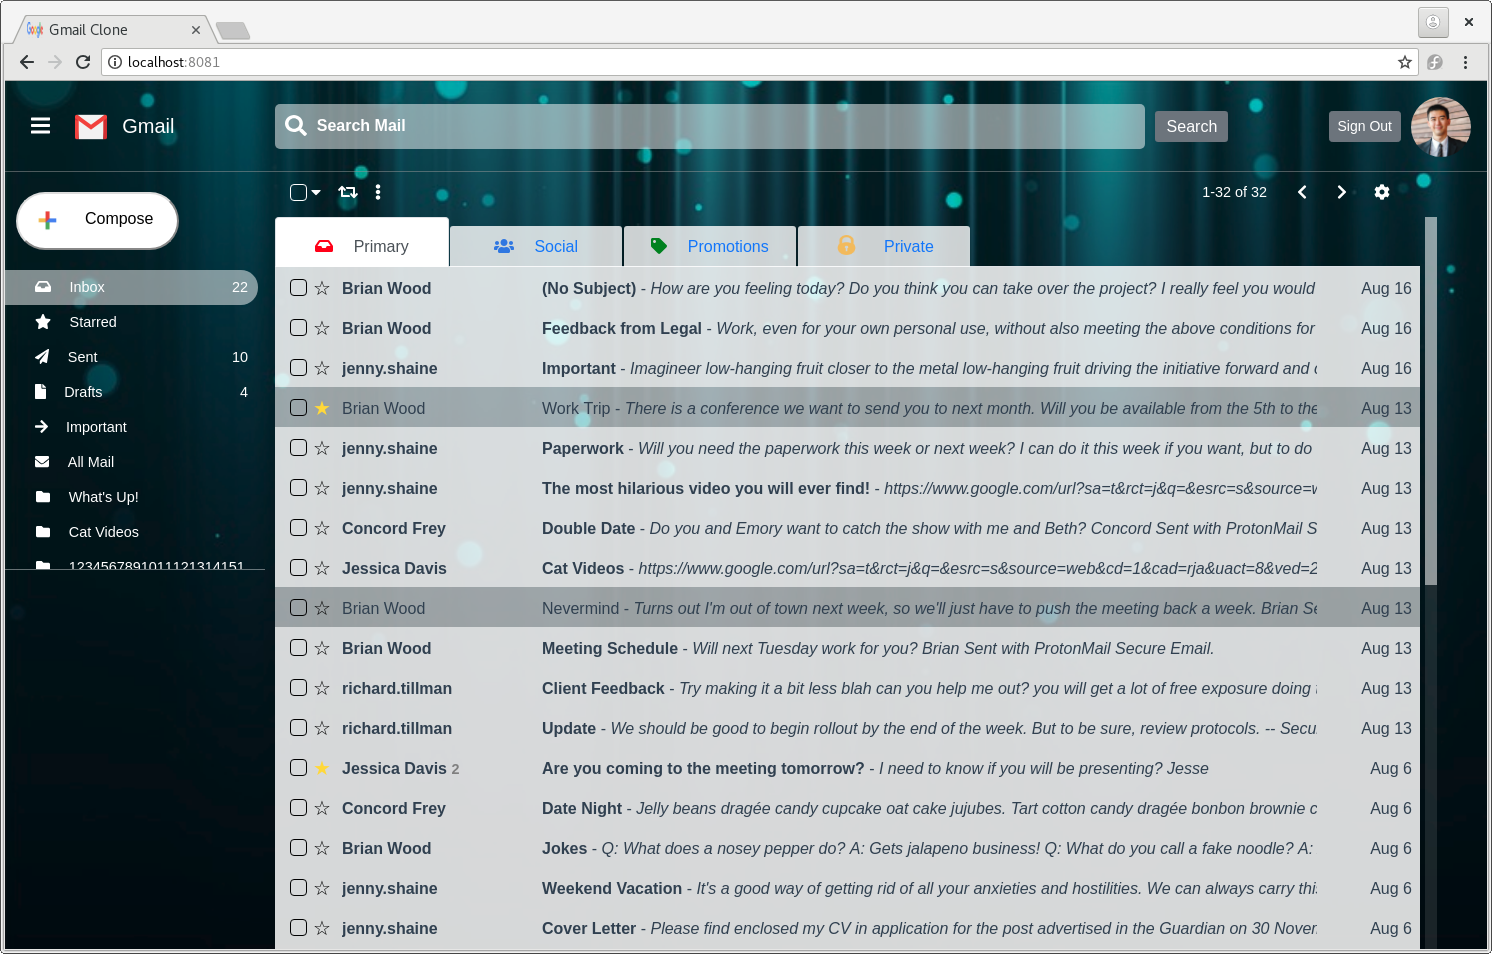
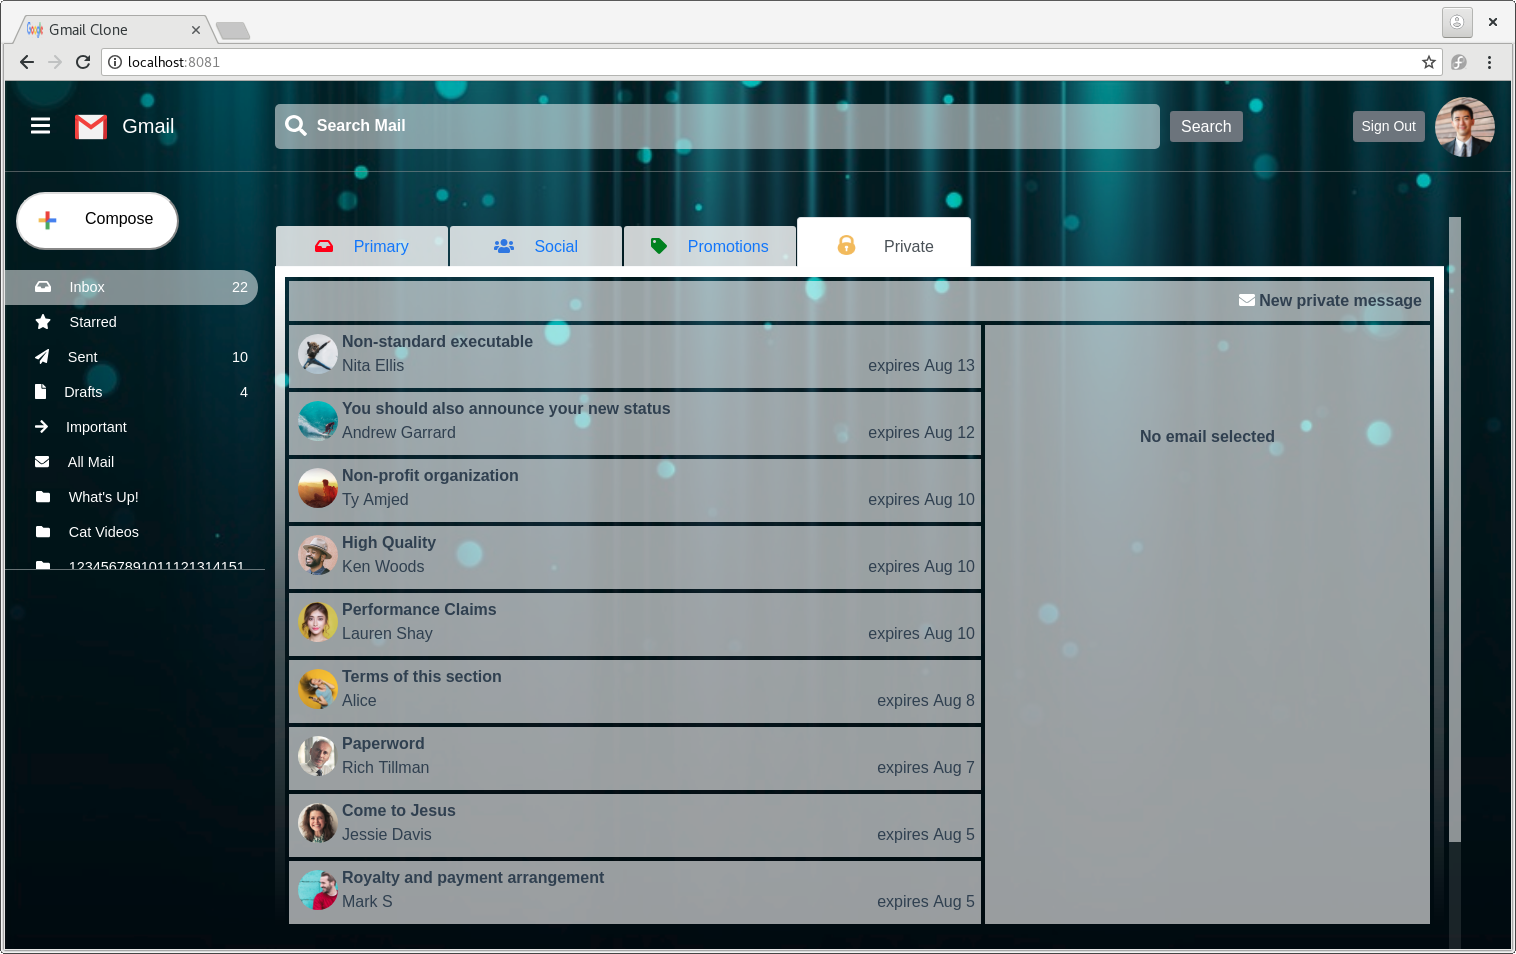
fixed photos

diff --git a/gmail-client/src/components/UtilityBar.vue b/gmail-client/src/components/UtilityBar.vue
@@ -210,7 +210,7 @@
   border-bottom: 0px;
   background-color: rgba(255, 255, 255, 0.0);
   width: 100%;
-  visibility: hidden;
+  /* visibility: hidden; */
 } 
 .iconDiv {
   position: relative;

diff --git a/gmail-client/README.md b/gmail-client/README.md
@@ -1,4 +1,6 @@
 Mockup 8
+after the first screen, uncomment UtilityBar.vue line 213
+
 to get the second screen (Mockup8b) clip on the private tab.
 
 to get the thrid screen (Mockup8c) from second screen: uncomment out InboxList.vue lines 323 & 359 & 360 and comment out InboxList.vue lines 362 & 363 & 302, 
